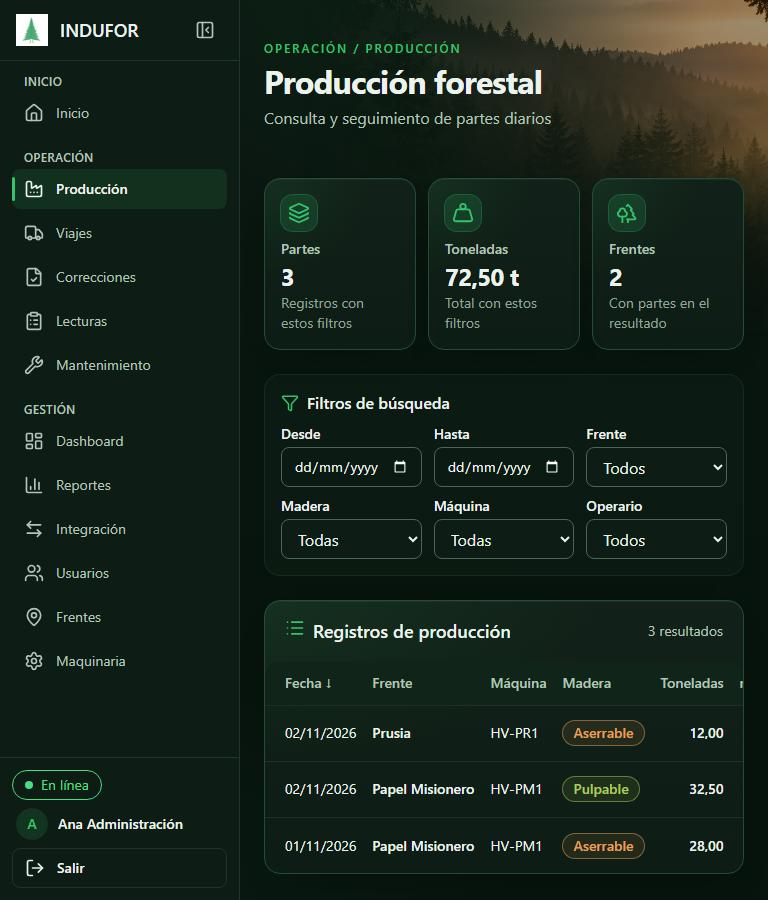
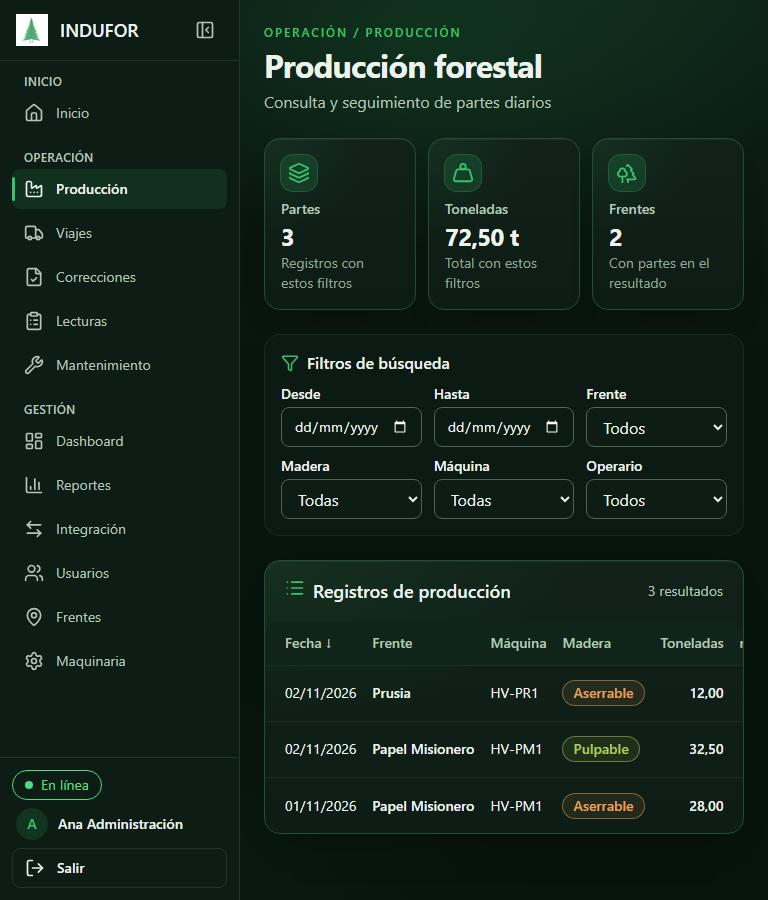
fix(ui): hallazgos críticos de la auditoría antislop
- P1: Producción y Viajes apilan filas en el celular (tabla-apilada, un solo DOM):
  ya no quedan ocultos el estado ni "Cargar remito".
- P1: la foto del encabezado solo en Inicio y Dashboard y termina con el encabezado,
  nunca detrás de KPI ni tablas.
- P4: Panel técnico muestra "Carga vencida" como etiqueta propia; el estado físico
  del matafuego queda como dato aparte.
- P4: toneladas y lecturas en formato es-AR en Viajes, Panel técnico y Lecturas.

diff --git a/frontend/src/features/production/ProduccionPage.tsx b/frontend/src/features/production/ProduccionPage.tsx
@@ -77,7 +77,7 @@ export function ProduccionPage() {
 
   return (
     <section className="grid gap-6">
-      <PageHeader eyebrow="Operación / Producción" titulo="Producción forestal" descripcion="Consulta y seguimiento de partes diarios" fondo="/header-bosque.webp"
+      <PageHeader eyebrow="Operación / Producción" titulo="Producción forestal" descripcion="Consulta y seguimiento de partes diarios"
         accion={puedeCargar && <Button asChild className="h-11"><Link to="/produccion/nuevo">Cargar parte</Link></Button>} />
 
       <div className="grid grid-cols-3 gap-2 sm:gap-3">
@@ -129,7 +129,7 @@ export function ProduccionPage() {
       </FilterPanel>
 
       <TablaPanel titulo="Registros de producción" icono={<ListIcon size={20} />} contador={meta && (meta.total === 1 ? '1 resultado' : `${meta.total} resultados`)}>
-        <Table>
+        <Table className="tabla-apilada">
           <TableHeader>
             <TableRow>
               <TableHead aria-sort="descending" className="pl-4 sm:pl-5">Fecha ↓</TableHead>
@@ -149,17 +149,17 @@ export function ProduccionPage() {
             {lista.data?.data.length === 0 && <FilaEstado tipo="vacio" columnas={9}>No hay partes con esos filtros. Probá ampliar las fechas o quitar algún filtro.</FilaEstado>}
             {lista.data?.data.map((p) => (
               <TableRow key={p.id} className="h-14">
-                <TableCell className="pl-4 tabular-nums sm:pl-5">{fecha(p.fecha_registro)}</TableCell>
-                <TableCell className="font-medium">{p.frente.nombre}</TableCell>
-                <TableCell>{p.unidad.nombre}</TableCell>
-                <TableCell><StatusBadge tono={TONO_MADERA[p.tipo_madera.nombre] ?? 'neutral'} className="capitalize">{p.tipo_madera.nombre}</StatusBadge></TableCell>
-                <TableCell className="text-right font-medium tabular-nums">{p.cantidad_toneladas ? numero(p.cantidad_toneladas) : <span className="text-soft">—</span>}</TableCell>
-                <TableCell className="text-right font-medium tabular-nums">{p.metros_cubicos ? numero(p.metros_cubicos) : <span className="text-soft">—</span>}</TableCell>
-                <TableCell>
+                <TableCell data-label="Fecha" className="pl-4 tabular-nums sm:pl-5">{fecha(p.fecha_registro)}</TableCell>
+                <TableCell data-label="Frente" className="font-medium">{p.frente.nombre}</TableCell>
+                <TableCell data-label="Máquina">{p.unidad.nombre}</TableCell>
+                <TableCell data-label="Madera"><StatusBadge tono={TONO_MADERA[p.tipo_madera.nombre] ?? 'neutral'} className="capitalize">{p.tipo_madera.nombre}</StatusBadge></TableCell>
+                <TableCell data-label="Toneladas" className="text-right font-medium tabular-nums">{p.cantidad_toneladas ? numero(p.cantidad_toneladas) : <span className="text-soft">—</span>}</TableCell>
+                <TableCell data-label="m³" className="text-right font-medium tabular-nums">{p.metros_cubicos ? numero(p.metros_cubicos) : <span className="text-soft">—</span>}</TableCell>
+                <TableCell data-label="Registró">
                   {p.registrado_por.apellido}, {p.registrado_por.nombre}
                   {p.operario && p.operario.id !== p.registrado_por.id && <span className="block text-sm text-soft">Operario: {p.operario.apellido}, {p.operario.nombre}</span>}
                 </TableCell>
-                <TableCell>
+                <TableCell data-label="Foto">
                   {p.tiene_foto && (
                     <Button size="icon" variant="ghost" aria-label={`Ver foto del parte del ${fecha(p.fecha_registro)}`} title="Ver foto"
                       onClick={() => abrirFoto(p.id).catch((e: Error) => toast.error(e.message))}><ImageIcon size={20} /></Button>

diff --git a/frontend/src/features/maintenance/PanelPage.tsx b/frontend/src/features/maintenance/PanelPage.tsx
@@ -7,8 +7,8 @@ import { Paginacion } from '@/shared/components/Paginacion'
 import { Button } from '@/shared/components/ui/button'
 import { Input } from '@/shared/components/ui/input'
 import { Table, TableBody, TableCell, TableHead, TableHeader, TableRow } from '@/shared/components/ui/table'
-import { ESTADOS_MATAFUEGO, TONO_MATAFUEGO, UNIDAD_METRICA, useAtenderFalla, useFallasAbiertas, usePanel, type FilaPanel } from './api'
-import { fecha } from './formato'
+import { ESTADOS_MATAFUEGO, TONO_MATAFUEGO, useAtenderFalla, useFallasAbiertas, usePanel, type FilaPanel } from './api'
+import { fecha, lectura } from './formato'
 import { PageHeader } from '@/shared/components/PageHeader'
 import { StatusBadge } from '@/shared/components/StatusBadge'
 
@@ -17,12 +17,14 @@ function Matafuego({ m }: { m: FilaPanel['matafuego'] }) {
   if (!m) return <span className="text-correction">⚠ Sin controles</span>
   return (
     <>
-      <StatusBadge tono={TONO_MATAFUEGO[m.estado]}>{ESTADOS_MATAFUEGO[m.estado]}</StatusBadge>
+      {m.vencido && m.vencimiento !== null && m.estado !== 'FALTANTE'
+        ? <StatusBadge tono="danger">⚠ Carga vencida</StatusBadge>
+        : <StatusBadge tono={TONO_MATAFUEGO[m.estado]}>{ESTADOS_MATAFUEGO[m.estado]}</StatusBadge>}
       <span className="block text-sm">
         {/* D24: sin vencimiento cuando falta el matafuego o la etiqueta no se lee; nunca se muestra como vigente */}
         {m.estado === 'FALTANTE' ? <span className="font-medium text-danger">⚠ Falta el matafuego</span>
           : m.vencimiento === null ? <span className="font-medium text-correction">⚠ Etiqueta ilegible: sin fecha de vencimiento</span>
-          : m.vencido ? <span className="font-medium text-danger">⚠ Carga vencida el {fecha(m.vencimiento)}</span>
+          : m.vencido ? <span className="text-soft">Venció el {fecha(m.vencimiento)} · estado del matafuego: {ESTADOS_MATAFUEGO[m.estado]}</span>
           : m.por_vencer ? <span className="text-correction">⚠ Vence el {fecha(m.vencimiento)}</span>
           : <span className="text-soft">Vence el {fecha(m.vencimiento)}</span>}
       </span>
@@ -102,7 +104,7 @@ export function PanelPage() {
                     <span className="block text-sm text-soft">{u.unidad.tipo}{u.unidad.frente && ` · ${u.unidad.frente}`}</span>
                   </TableCell>
                   <TableCell className="tabular-nums">
-                    {u.ultima_lectura ? <>{u.ultima_lectura.valor} {UNIDAD_METRICA[u.unidad.metrica]}<span className="block text-sm text-soft">{fecha(u.ultima_lectura.fecha)}</span></> : '—'}
+                    {u.ultima_lectura ? <>{lectura(u.ultima_lectura.valor, u.unidad.metrica)}<span className="block text-sm text-soft">{fecha(u.ultima_lectura.fecha)}</span></> : '—'}
                     {u.ultima_carga_sin_valor && <span className="block text-sm text-correction">⚠ Última carga: falla sin valor ({fecha(u.ultima_carga_sin_valor)})</span>}
                     <span className={`block text-sm ${u.lectura_semana ? 'text-approved' : 'text-correction'}`}>{u.lectura_semana ? '✓ Leída esta semana' : '⚠ Sin lectura desde el lunes'}</span>
                   </TableCell>

diff --git a/frontend/src/features/logistics/ViajesPage.tsx b/frontend/src/features/logistics/ViajesPage.tsx
@@ -13,6 +13,7 @@ import { useFiltrosUrl } from '@/shared/hooks/useFiltrosUrl'
 import { controlSelect, FilterPanel } from '@/shared/components/FilterPanel'
 import { PageHeader } from '@/shared/components/PageHeader'
 import { StatusBadge } from '@/shared/components/StatusBadge'
+import { numero } from '@/features/reports/formato'
 
 const select = controlSelect
 const fechaHora = (s: string) => {
@@ -84,7 +85,7 @@ export function ViajesPage() {
       {lista.isError && <p role="alert" className="text-danger">{(lista.error as Error).message}</p>}
 
       <div className="surface overflow-x-auto">
-        <Table>
+        <Table className="tabla-apilada">
           <TableHeader>
             <TableRow>
               <TableHead>Fecha</TableHead>
@@ -101,17 +102,17 @@ export function ViajesPage() {
             {lista.data?.data.length === 0 && <TableRow><TableCell colSpan={7}>No hay viajes con esos filtros.</TableCell></TableRow>}
             {lista.data?.data.map((v) => (
               <TableRow key={v.id}>
-                <TableCell className="whitespace-nowrap">{fechaHora(v.fecha)}</TableCell>
-                <TableCell className="min-w-44 whitespace-normal">{v.origen.nombre} → {v.destino}</TableCell>
-                <TableCell>
+                <TableCell data-label="Fecha" className="whitespace-nowrap">{fechaHora(v.fecha)}</TableCell>
+                <TableCell data-label="Recorrido" className="min-w-44 whitespace-normal">{v.origen.nombre} → {v.destino}</TableCell>
+                <TableCell data-label="Camión">
                   {v.camion.nombre}
                   <span className="block text-sm text-soft">{v.camionero.apellido}, {v.camionero.nombre}</span>
                 </TableCell>
-                <TableCell className="tabular-nums"><span className="capitalize">{v.tipo_madera.nombre}</span> · {v.volumen_declarado} t</TableCell>
-                <TableCell className="tabular-nums">
-                  {v.remito ? <>N.º {v.remito.numero}<span className="block text-sm text-soft"><span className="capitalize">{v.remito.tipo_madera.nombre}</span> · {v.remito.volumen_toneladas} t</span></> : '—'}
+                <TableCell data-label="Declarado" className="tabular-nums"><span className="capitalize">{v.tipo_madera.nombre}</span> · {numero(v.volumen_declarado)} t</TableCell>
+                <TableCell data-label="Remito" className="tabular-nums">
+                  {v.remito ? <>N.º {v.remito.numero}<span className="block text-sm text-soft"><span className="capitalize">{v.remito.tipo_madera.nombre}</span> · {numero(v.remito.volumen_toneladas)} t</span></> : '—'}
                 </TableCell>
-                <TableCell>
+                <TableCell data-label="Estado">
                   <StatusBadge tono={ESTADOS[v.estado].tono}>{ESTADOS[v.estado].texto}</StatusBadge>
                   {v.solicitud_abierta && <span className="block whitespace-pre-line text-sm text-soft">{v.solicitud_abierta.detalle}</span>}
                 </TableCell>

diff --git a/frontend/src/shared/components/PageHeader.tsx b/frontend/src/shared/components/PageHeader.tsx
@@ -3,8 +3,8 @@ import type { ReactNode } from 'react'
 /**
  * Encabezado de página Forest Depth (docs/forest-depth.md). Las capas decorativas usan -z-10 sin `isolate` propio:
  * se pintan en el contexto del layout (AppLayout es `isolate`), sobre el canvas y debajo de todo el contenido. `fondo` es opcional: la foto se extiende hasta el borde
- * superior y derecho del área de contenido y se funde con el canvas por máscara (izquierda y abajo, por detrás de lo
- * que sigue). No se muestra ni se descarga en el celular.
+ * superior y derecho del área de contenido y se funde con el canvas por máscara (izquierda y abajo). Termina con el
+ * encabezado: nunca queda detrás de números ni tablas (docs/forest-depth.md). No se muestra ni se descarga en el celular.
  */
 export function PageHeader({ eyebrow, titulo, descripcion, accion, children, fondo }: {
   eyebrow?: string
@@ -15,10 +15,10 @@ export function PageHeader({ eyebrow, titulo, descripcion, accion, children, fon
   fondo?: string
 }) {
   return (
-    <header className={`relative flex flex-wrap items-start justify-between gap-4 ${fondo ? 'sm:pt-4 sm:pb-6' : ''}`}>
+    <header className={`relative flex flex-wrap items-start justify-between gap-4 ${fondo ? 'sm:pt-4 sm:pb-10' : ''}`}>
       {fondo && (
         <div aria-hidden="true" data-testid="fondo-encabezado"
-          className="header-photo pointer-events-none absolute -top-10 -left-6 -z-10 hidden h-[24rem] w-screen sm:block"
+          className="header-photo pointer-events-none absolute -top-10 bottom-0 -left-6 -z-10 hidden w-screen sm:block"
           style={{ backgroundImage: `url(${fondo})` }} />
       )}
       {!fondo && <div aria-hidden="true" className="pointer-events-none absolute -top-48 -left-56 -z-10 h-[26rem] w-[48rem] [background:var(--header-glow)]" />}

diff --git a/frontend/src/features/maintenance/TablaLecturas.tsx b/frontend/src/features/maintenance/TablaLecturas.tsx
@@ -2,8 +2,8 @@ import type { UseQueryResult } from '@tanstack/react-query'
 import type { Paginado } from '@/shared/api/types'
 import { Paginacion } from '@/shared/components/Paginacion'
 import { Table, TableBody, TableCell, TableHead, TableHeader, TableRow } from '@/shared/components/ui/table'
-import { UNIDAD_METRICA, type Lectura } from './api'
-import { fecha } from './formato'
+import type { Lectura } from './api'
+import { fecha, lectura } from './formato'
 
 /** Lecturas con su falla y, si la hubo, la atención de Mantenimiento con su nota (spec 08, H-08.5). */
 export function TablaLecturas({ q, onPagina, conUnidad }: { q: UseQueryResult<Paginado<Lectura>>; onPagina: (p: number) => void; conUnidad: boolean }) {
@@ -33,7 +33,7 @@ export function TablaLecturas({ q, onPagina, conUnidad }: { q: UseQueryResult<Pa
                     <span className="block text-sm text-soft">{l.operario.apellido}, {l.operario.nombre}</span>
                   </TableCell>
                   {conUnidad && <TableCell>{l.unidad.nombre}</TableCell>}
-                  <TableCell className="text-right tabular-nums">{valor !== null ? `${valor} ${UNIDAD_METRICA[l.unidad.metrica]}` : '—'}</TableCell>
+                  <TableCell className="text-right tabular-nums">{valor !== null ? lectura(valor, l.unidad.metrica) : '—'}</TableCell>
                   <TableCell className="text-sm">
                     {!l.tiene_falla && <span className="text-soft">—</span>}
                     {l.tiene_falla && (

diff --git a/frontend/src/index.css b/frontend/src/index.css
@@ -198,6 +198,17 @@ body { font-family: var(--font-sans); font-size: 16px; }
   color: var(--color-brand);
 }
 
+/* En el celular las tablas marcadas con `tabla-apilada` apilan cada fila; cada celda muestra su encabezado (data-label).
+   Sin data-label (acciones, filas de estado) la celda ocupa todo el ancho. */
+@media (max-width: 639px) {
+  .tabla-apilada, .tabla-apilada tbody, .tabla-apilada tr, .tabla-apilada td { display: block; width: 100%; }
+  .tabla-apilada thead { position: absolute; width: 1px; height: 1px; overflow: hidden; clip-path: inset(50%); white-space: nowrap; }
+  .tabla-apilada tr { height: auto; padding: 0.75rem 1rem; }
+  .tabla-apilada td { position: relative; height: auto; padding: 0.25rem 0 0.25rem 7.5rem; text-align: left; white-space: normal; }
+  .tabla-apilada td::before { content: attr(data-label); position: absolute; top: 0.3rem; left: 0; width: 7rem; font-size: 0.875rem; color: var(--color-text-secondary); }
+  .tabla-apilada td:not([data-label]) { padding-left: 0; }
+}
+
 @media (prefers-reduced-motion: reduce) {
   *, ::before, ::after { transition-duration: 0.01ms !important; animation-duration: 0.01ms !important; }
 }

diff --git a/frontend/src/features/maintenance/HistorialUnidadPage.test.tsx b/frontend/src/features/maintenance/HistorialUnidadPage.test.tsx
@@ -26,7 +26,7 @@ describe('HistorialUnidadPage (spec 08, CA-08.7)', () => {
     renderConApp(<Routes><Route path="/mantenimiento/unidad/:id" element={<HistorialUnidadPage />} /></Routes>, { ruta: '/mantenimiento/unidad/9' })
 
     expect(await screen.findByRole('heading', { name: 'Historial de HV-01' })).toBeInTheDocument()
-    expect(await screen.findByText('1250.50 h')).toBeInTheDocument()
+    expect(await screen.findByText('1.250,50 h')).toBeInTheDocument()
     expect(screen.getByText(/Atendida el 21\/10\/2026 15:00 por Mantenimiento: Se cambió el display/)).toBeInTheDocument()
     const filaControl = (await screen.findByText('Faltante')).closest('tr')!
     expect(within(filaControl).getByText('21/10/2026')).toBeInTheDocument()

diff --git a/frontend/src/features/maintenance/formato.ts b/frontend/src/features/maintenance/formato.ts
@@ -1,3 +1,10 @@
+import { numero } from '@/features/reports/formato'
+import type { Metrica } from '@/features/machinery/api'
+import { UNIDAD_METRICA } from './api'
+
+/** Lectura en es-AR: horas con 2 decimales, kilómetros enteros. */
+export const lectura = (v: string | number, metrica: Metrica) => `${numero(v, metrica === 'KILOMETRAJE' ? 0 : 2)} ${UNIDAD_METRICA[metrica]}`
+
 /** 'AAAA-MM-DD' o 'AAAA-MM-DD HH:MM' → 'DD/MM/AAAA[ HH:MM]'. */
 export const fecha = (iso: string) => {
   const [f, h] = iso.split(' ')

diff --git a/docs/forest-depth.md b/docs/forest-depth.md
@@ -82,18 +82,27 @@ Las cifras de producción, consumos y lecturas van siempre con `tabular-nums`, a
 - Archivo: `frontend/public/header-bosque.webp` (2172 × 724, 404 KB).
 - Se extiende hasta el borde superior y derecho del área de contenido. El contenedor recorta lo que sobra con `overflow-x-clip`, sin scroll horizontal.
 - Se funde con una **máscara de transparencia** hacia la izquierda y hacia abajo (utilidad `header-photo`), oscurecida con `brightness(.62)`. No se usa un velo de color: un velo del color del canvas dejaba un rectángulo visible sobre la luz ambiental (corrección del 2026-11-03).
+- **Solo en Inicio y Dashboard** (vistas de resumen). **Termina con el encabezado**: la capa va de `-top-10` a `bottom-0` del header y nunca queda detrás de KPI, números ni tablas.
 - **No se muestra ni se descarga en el celular** (< 640 px): la capa es `hidden sm:block`.
 - **Fuera del precache de la PWA:** `globPatterns` no incluye `.webp`. Verificado en `dist/sw.js`.
 - Si el archivo falta, el encabezado sigue funcionando.
+
+## Tablas en el celular
+
+`tabla-apilada` (clase en `<Table>`, CSS en `index.css`): por debajo de 640 px cada fila se apila y cada celda muestra su encabezado desde `data-label`. Un solo DOM, sin duplicar la tabla como tarjetas (los tests no ven elementos repetidos). Aplicada en Producción y Viajes, que se consultan desde el campo. Las celdas sin `data-label` (acciones, filas de estado) ocupan todo el ancho.
+
+## Formato de cifras
+
+Toneladas con `numero()` y lecturas con `lectura()` (`features/maintenance/formato.ts`: horas con 2 decimales, km enteros), siempre en es-AR, en las tablas de Producción, Viajes, Panel técnico y Lecturas.
 
 ## Vistas migradas
 
 | Vista | Encabezado | Componentes |
 |---|---|---|
 | Inicio | `PageHeader` con foto; fecha y estado de actualización como acción | `KpiCard` por gravedad (crítico, atención, seguimiento, neutro), paneles `surface`, accesos `surface-interactive` |
-| Producción | `PageHeader` con foto | `KpiCard`, `FilterPanel` con etiquetas, `TablaPanel`, `StatusBadge` de madera |
+| Producción | `PageHeader` sin foto (consulta densa; auditoría antislop P1) | `KpiCard`, `FilterPanel` con etiquetas, `TablaPanel`, `StatusBadge` de madera |
 | Dashboard | `PageHeader` con foto | `KpiCard vertical` con ícono; alerta con ⚠ y tono atención |
-| Viajes | `PageHeader` | `FilterPanel` (limpiable), tabla `surface`, `StatusBadge` de validación |
+| Viajes | `PageHeader` | `FilterPanel` (limpiable), tabla `surface` apilada en el celular (`tabla-apilada`), `StatusBadge` de validación |
 | Correcciones | `PageHeader` | Tarjetas `surface`, `StatusBadge` de la solicitud |
 | Lecturas, Panel técnico, Historial | `PageHeader` | Tablas `surface`, `StatusBadge` de matafuego (`TONO_MATAFUEGO`) |
 | Reportes | `PageHeader` | Pestañas con la marca, filtros `surface-quiet`, `StatusBadge` en viajes |
